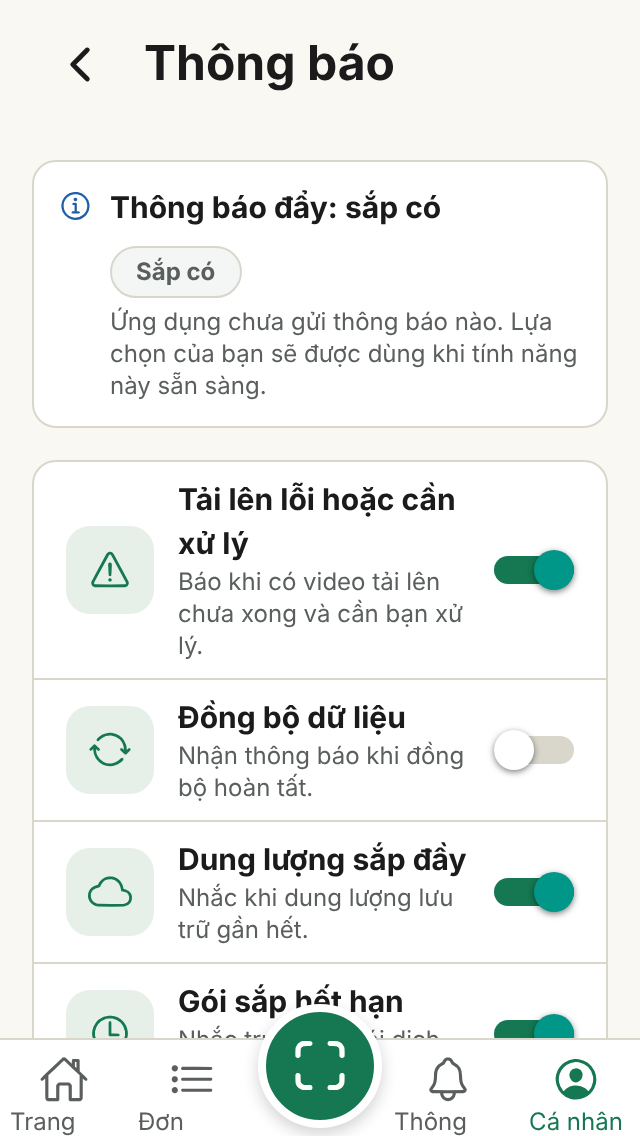
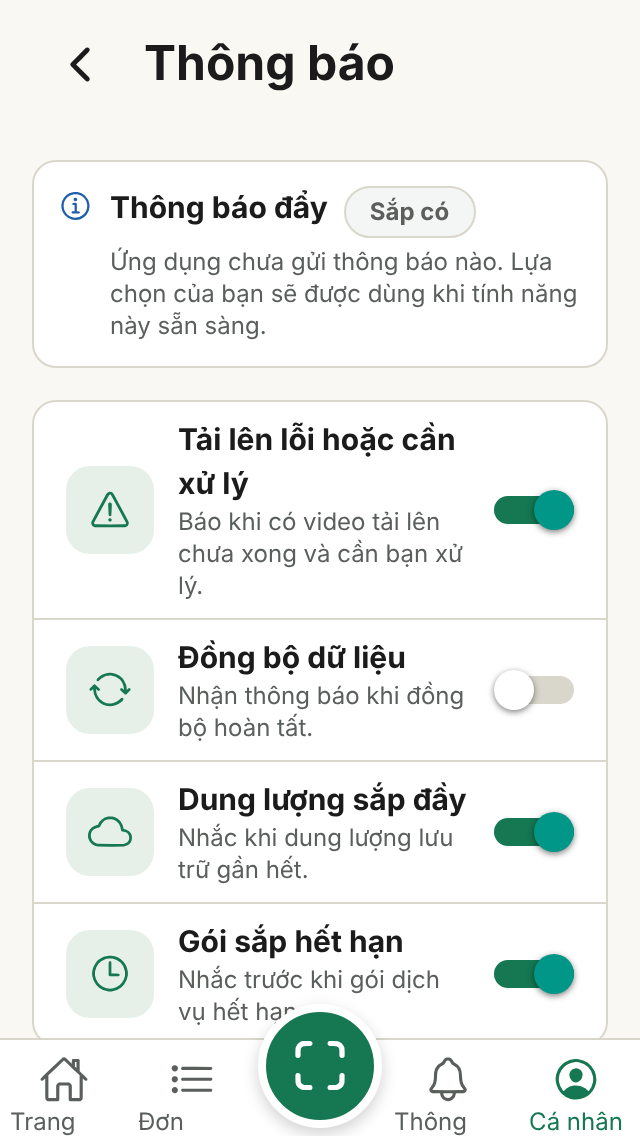
docs(personal): ảnh bản web khung 15-18 (PR-H) và chụp lại pr-g-13
Claude-Session: https://claude.ai/code/session_01EqYbDcnm1zXTanGNx6inm6

diff --git a/docs/assets/screens/personal-tab-v3/README.md b/docs/assets/screens/personal-tab-v3/README.md
@@ -214,3 +214,36 @@
 | Trạng thái | đạt | đạt | 13: tải, lỗi tải, lỗi lưu, đang lưu (công tắc khóa); 14: tải/lỗi hồ sơ, tài khoản Apple/Google |
 | Chữ lớn | đạt | đạt | nhãn và huy hiệu "Sắp có" xuống dòng |
 | Chuỗi chữ | lệch có chủ đích | lệch có chủ đích | 13: bỏ "Tài khoản", "Cập nhật sản phẩm"; "Thời hạn lưu" -> "Dung lượng sắp đầy"/"Gói sắp hết hạn", thêm "Tải lên lỗi hoặc cần xử lý" (docs/09). 14: "Xác nhận 2 lớp" + "Sắp có" (board "Xác thực 2 lớp: Chưa bật"); mọi hàng chưa làm "Sắp có"; xem mục 6.7 của plan |
+
+---
+
+# Ảnh đối chiếu PR-H: Trợ giúp, bài hướng dẫn, liên hệ hỗ trợ, điều khoản (khung 15-18)
+
+**Lưu ý trung thực:** ảnh render **bản web** (react-native-web trong Chromium) của màn thật trên **cổng giả**, **không phải ảnh chụp trên iOS/Android thật**; 320x568, 360x800, 390x844 (hệ số 2) và chữ lớn (hệ số 1.6, chỉ 320x568, mô phỏng bằng tham số tạm). Bản sao ngoài repo (`react-native-web`, không đổi `package.json`) có sửa tạm KHÔNG commit: tham số URL `fs` (chữ lớn), `noname=1` (hồ sơ chưa có họ tên), `mail=1` (**giả lập** địa chỉ hỗ trợ để thấy nút Soạn email hỗ trợ ở trạng thái mở; trong app thật hôm nay luôn khóa), cổng giả có họ tên "Trần Văn Minh". Ảnh `pr-g-13-notifications-*` đã chụp lại theo mã hiện tại.
+
+| Ảnh | Nội dung |
+| --- | --- |
+| `pr-h-15-help-center-*`, `...-largetext-320x568` | Khung 15: ô tìm, Danh mục (3, không "Cập nhật sản phẩm"), Bài viết đề xuất, lối Liên hệ/Điều khoản |
+| `pr-h-15-search-results-*`, `pr-h-15-search-empty-*` | Tìm "video chua dong bo" (có kết quả); "thanh toan visa" (rỗng, có lối Liên hệ hỗ trợ) |
+| `pr-h-15-category-*` | Danh sách bài của một danh mục (board không vẽ) |
+| `pr-h-16-article-*`, `...-largetext-320x568`, `pr-h-16-article-no-video-*`, `pr-h-16-article-faq-*` | Khung 16: bài có "Tiếp theo"; bài quay (nói chưa ghi video, bài cuối nên không "Tiếp theo"); bài hỏi đáp (không phần các bước) |
+| `pr-h-17-contact-locked-*`, `...-largetext-320x568` | Khung 17 thật hôm nay: thẻ "chưa gửi được", nút khóa |
+| `pr-h-17-contact-simulated-errors-*`, `pr-h-17-contact-simulated-filled-*` | **Giả lập có địa chỉ**: lỗi từng ô khi bấm nút; đã điền |
+| `pr-h-18-legal-*`, `...-largetext-320x568` | Khung 18: hai hàng khóa "Sắp có" kèm thẻ giải thích |
+| `pr-h-board-reference-15-18.png`, `pr-h-compare-board-vs-app-390.png` | Khung 15-18 cắt từ board; hàng trên board, hàng dưới app 390x844 (15, 16, 17 thật, 18) |
+
+## Checklist "giống design"
+
+| Hạng mục | 15 | 16 | 17 | 18 | Ghi chú lệch |
+| --- | --- | --- | --- | --- | --- |
+| Bố cục và thứ tự khối | gần | lệch có chủ đích | lệch có chủ đích | gần | 15: thêm nhóm "Cần thêm trợ giúp?" (lối vào 17, 18); 16: không ảnh/nút phát (D26); 17: thẻ chưa có kênh, bỏ SĐT, thêm Chủ đề và Mã đơn (D14); 18: 2 hàng thay 4 |
+| Thứ bậc chữ | đạt | đạt | đạt | đạt | |
+| Màu thẻ/nền | gần | đạt | gần | gần | hàng khóa mờ; thẻ cảnh báo màu cam nhạt |
+| Icon | gần | - | - | gần | Ionicons gần nghĩa |
+| Nút | - | đạt | lệch có chủ đích | - | 16: "Tiếp theo" ghim đáy; 17: "Soạn email hỗ trợ" khóa (board "Gửi yêu cầu") |
+| Header | đạt | đạt (tên danh mục) | đạt | đạt | |
+| Thanh tab | hiện | ẩn | ẩn | ẩn | 15 là route gốc UI-I06; còn lại route con |
+| Trạng thái | đạt | đạt | đạt | đạt | 15: có/không kết quả; 16: bài lạ; 17: khóa, lỗi ô, lỗi mở email; 18: khóa |
+| Chữ lớn | đạt | đạt | đạt | đạt | xuống dòng, không cắt |
+| Chuỗi chữ | lệch có chủ đích | lệch có chủ đích | lệch có chủ đích | lệch có chủ đích | bài viết do dev viết tạm; "Soạn email hỗ trợ"; "Chính sách quyền riêng tư"; bỏ "đổi trả", "dữ liệu" |
+
